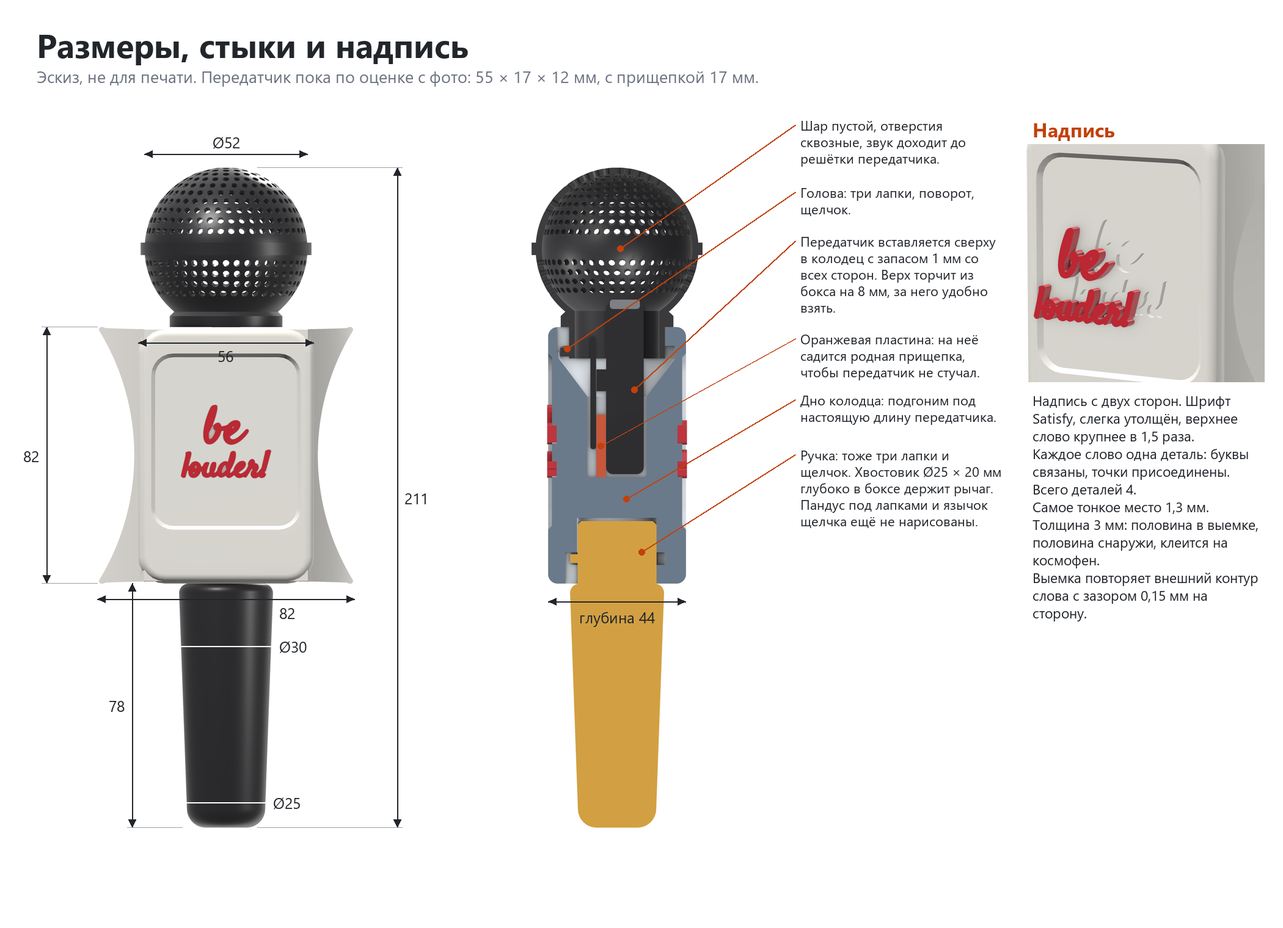
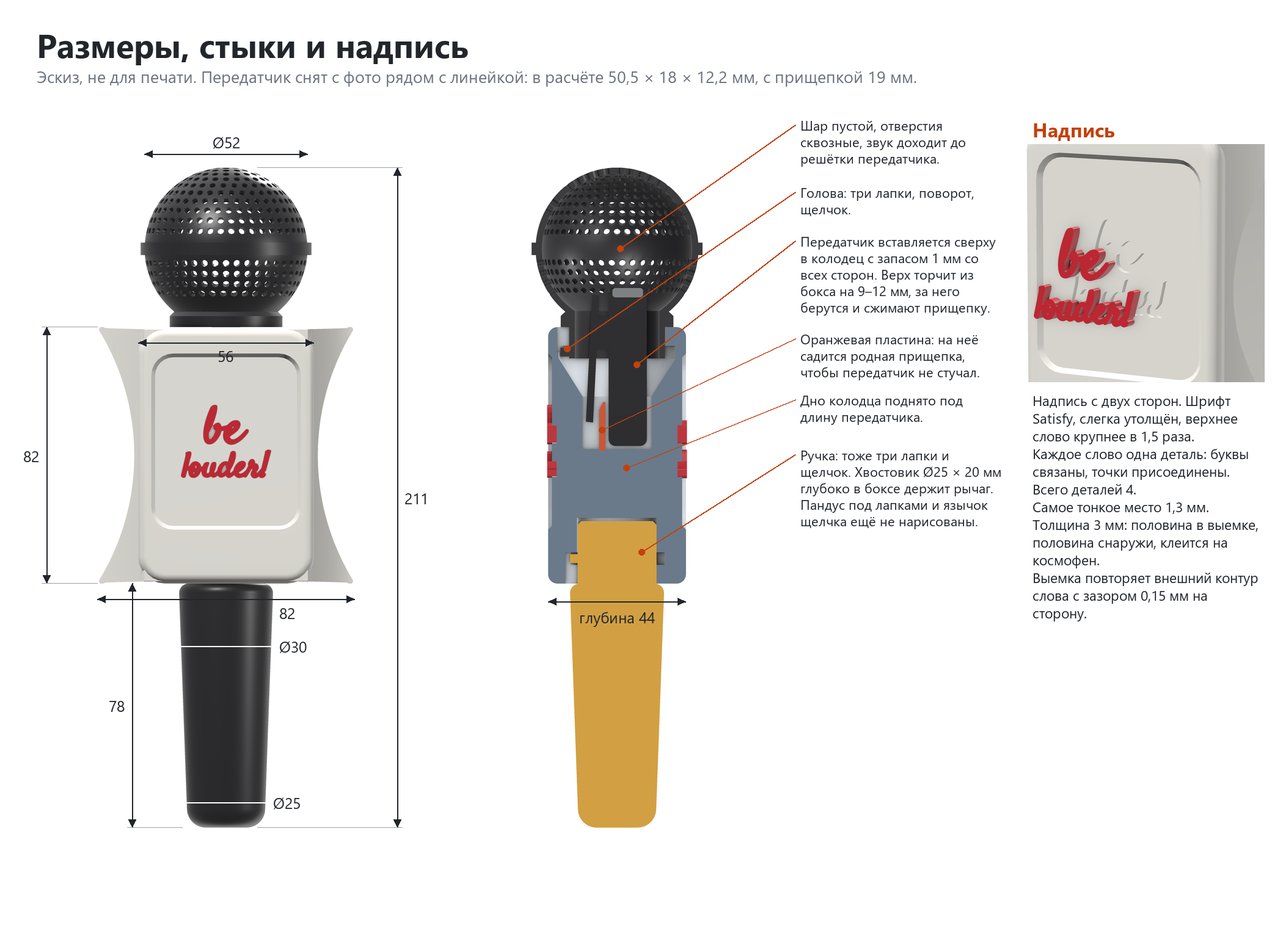
aksdom-m31-reporter-mic-case: передатчик по фото с линейкой, новый колодец
Размеры сняты с фото заказчика, в расчёте верхняя оценка 50,5 × 18 × 12,2 мм,
контур сверен наложением на фото. Прищепка смоделирована настоящей: с наклоном,
осью и проушиной. Колодец стал глубже под штырьки на зубцах, дно поднято,
пластина тоньше и на всю ширину. В проверку добавлен прогон передатчика сверху
до посадки, новый лист design-fit с точными сечениями. Статус прежний, черновик.

diff --git a/models/aksdom-m31-reporter-mic-case/v1/src/mic_case.py b/models/aksdom-m31-reporter-mic-case/v1/src/mic_case.py
@@ -23,13 +23,27 @@ K = 52.0 / 180.0                     # мм на пиксель рисунка
 # ---------- надпись: две строки, задаётся параметром ----------
 TEXT = ('be', 'louder!')
 
-# ---------- передатчик: оценка по фото покупателя, штангенциркулем не проверялось ----------
-TX_L, TX_W, TX_T = 55.0, 17.0, 12.0
-CLIP_T = 5.0
-CLIP_L, CLIP_W = 36.0, 13.0
-TX_SIDE = 0.9       # на сколько выступают кнопка и ползунок сбоку (оценка)
+# ---------- передатчик: сняты с фото рядом с линейкой, штангенциркулем не проверялось ----------
+# Линейка лежит на листе, а передатчик выше неё, поэтому на фото он крупнее настоящего, примерно на 3–8 %.
+# Здесь верхняя оценка без этой поправки: настоящий около 47 × 17 × 11, запас выйдет не меньше TX_GAP.
+TX_L, TX_W, TX_T = 50.5, 18.0, 12.2
+TX_SIDE = 0.8       # на сколько выступают кнопка и ползунок, они на одной стороне, +X
+TX_R = 2.2          # скругление рёбер корпуса
 TX_GAP = 1.0        # запас вокруг передатчика со всех сторон: входит и вынимается свободно
-TX_Y = CLIP_T / 2   # передатчик с прищепкой стоит по центру бокса
+
+# Прищепка закрыта и стоит с наклоном: у зажима дальше от корпуса, у зубцов почти вплотную.
+CLIP_L, CLIP_W = 40.5, 11.0
+CLIP_TOP = 2.7      # от верхнего торца передатчика до конца зажима
+CLIP_PRESS = 6.8    # толщина прищепки вместе с зазором у зажима, спереди назад
+CLIP_TIP = 3.5      # то же у зубцов
+CLIP_PLATE = 2.3    # толщина планки
+PIVOT_FROM_TOP = 14.3   # ось прищепки от верхнего торца
+PIVOT_BACK = 1.7        # ось за спинкой корпуса
+EAR_L, EAR_W, EAR_D = 10.0, 7.0, 4.3    # проушина оси на спинке, ширина под планкой не видна, взята примерно
+PRONG_L = 2.0       # штырьки на зубцах, упираются в пластину и отжимают планку
+BODY_PIN = 1.0      # выступ на корпусе напротив них, отжимает корпус от пластины
+
+TX_Y = CLIP_PRESS / 2   # закрытый передатчик с прищепкой идёт по центру прохода Ø27
 
 # ---------- бокс: снято с рисунка ----------
 BOX_W = 56.0        # 195 пикселей
@@ -66,7 +80,10 @@ TOP_PLATE = 6.0     # толщина верхней плиты
 SPIGOT_D = 25.2     # хвостовик ручки
 SPIGOT_L = 20.0     # длинный, чтобы ручка не качалась
 BOT_PLATE = 6.0
-PEDESTAL_Z = 34.0   # дно колодца: верх передатчика на 8 мм выше бокса, за него можно взять пальцами
+PEDESTAL_Z = 43.0   # дно колодца: верх передатчика на 9–12 мм выше бокса, за него берутся и сжимают прищепку
+BLADE_T = 2.0       # пластина, на которую садится прищепка
+BLADE_H = 15.0      # заходит за штырьки, но не доходит до проушины
+JAW_ROOM = 0.5      # добавка к глубине колодца: зубцы раскрываются на пластине
 
 
 def rrect(w, h, r):
@@ -186,15 +203,30 @@ def text_lines():
     return full, solid
 
 
+def well_half():
+    return TX_W / 2 + TX_SIDE + TX_GAP, (TX_T + CLIP_PRESS) / 2 + TX_GAP + JAW_ROOM
+
+
+def blade_y():
+    """Лицо и спина пластины: лицо за спинкой передатчика на высоту выступа корпуса."""
+    y1 = TX_Y - TX_T / 2 - BODY_PIN
+    return y1 - BLADE_T, y1
+
+
 def blade():
-    """Пластина, на которую садится прищепка: с зазором передатчик иначе болтался бы и стучал в запись."""
-    return Manifold.cube([15, 3.0, 20], True).translate([0, TX_Y - TX_T / 2 - 1.6, PEDESTAL_Z + 10])
+    """Пластина на всю ширину колодца: с запасом передатчик иначе болтался бы и стучал в запись.
+    Верх скошен со стороны прищепки, чтобы зубцы находили пластину на ощупь."""
+    x = well_half()[0] + 0.5
+    y0, y1 = blade_y()
+    z0, z1 = PEDESTAL_Z - 0.5, PEDESTAL_Z + BLADE_H
+    base = Manifold.cube([2 * x, y1 - y0, z1 - 2.5 - z0]).translate([-x, y0, z0])
+    tip = Manifold.cube([2 * x, 0.8, 0.01]).translate([-x, y1 - 0.8, z1 - 0.01])
+    return Manifold.batch_hull([base, tip])
 
 
 def well():
     """Колодец под передатчик с зазором TX_GAP со всех сторон, сверху воронка к посадке головы."""
-    x = TX_W / 2 + TX_SIDE + TX_GAP
-    y = (TX_T + CLIP_T) / 2 + TX_GAP
+    x, y = well_half()
     z0, z1, z2 = PEDESTAL_Z, BOX_H - TOP_PLATE - 16, BOX_H - TOP_PLATE - 4
     low = Manifold.cube([2 * x, 2 * y, z1 - z0]).translate([-x, -y, z0])
     base = Manifold.cube([2 * x, 2 * y, 0.2]).translate([-x, -y, z1 - 0.2])
@@ -293,16 +325,36 @@ def handle():
     return b + spig + Manifold.batch_boolean(lugs, OpType.Add)
 
 
-def transmitter():
-    """Передатчик для проверки посадки: низ на подставке, лицо к +Y, прищепка к -Y."""
-    body_ = rounded_box(TX_W, TX_T, TX_L, 2.2)
-    grille = rounded_box(TX_W - 2.4, TX_T - 2.4, 3.0, 1.0).translate([0, 0, TX_L - 2.2])
-    btn = rounded_box(1.4, 3.6, 9.0, 0.5).translate([TX_W / 2 + 0.2, 0, TX_L - 18])
-    sld = rounded_box(1.2, 3.0, 6.0, 0.4).translate([TX_W / 2 + 0.1, 0, TX_L - 30])
-    arm = rounded_box(CLIP_W, 1.8, CLIP_L, 0.7).translate([0, -TX_T / 2 - CLIP_T + 0.9, 8.0])
-    pivot = Manifold.cube([CLIP_W - 2, CLIP_T - 1.5, 7], True).translate([0, -TX_T / 2 - (CLIP_T - 1.5) / 2 + 0.4, 8 + CLIP_L - 14])
-    at = [0, TX_Y, PEDESTAL_Z + TX_GAP]
-    return (body_ + btn + sld).translate(at), grille.translate(at), (arm + pivot).translate(at)
+def clip_arm(open_deg=0.0):
+    """Планка прищепки в координатах передатчика: зажим вверху, зубцы внизу. open_deg раскрывает зубцы вокруг оси."""
+    z_press, z_tip = TX_L - CLIP_TOP, TX_L - CLIP_TOP - CLIP_L
+    y_press, y_tip = -TX_T / 2 - CLIP_PRESS, -TX_T / 2 - CLIP_TIP
+    pts = [[y_tip, z_tip], [y_press, z_press], [y_press + CLIP_PLATE, z_press], [y_tip + CLIP_PLATE, z_tip]]
+    arm = CrossSection([pts], FillRule.EvenOdd).extrude(CLIP_W).rotate([90, 0, 90]).translate([-CLIP_W / 2, 0, 0])
+    yp, zp = -TX_T / 2 - PIVOT_BACK, TX_L - PIVOT_FROM_TOP
+    return arm.translate([0, -yp, -zp]).rotate([-open_deg, 0, 0]).translate([0, yp, zp])
+
+
+def seated_open():
+    """На сколько раскрыта прищепка на пластине: штырьки упёрлись в спину пластины, худший случай."""
+    y_inner = -TX_T / 2 - CLIP_TIP + CLIP_PLATE     # внутренняя грань планки у зубцов, закрыта
+    need = (TX_Y + y_inner) - (blade_y()[0] - PRONG_L)
+    return math.degrees(math.atan(need / (TX_L - PIVOT_FROM_TOP - (TX_L - CLIP_TOP - CLIP_L))))
+
+
+def transmitter(open_deg=None, dz=0.0):
+    """Передатчик для проверки посадки: лицо к +Y, прищепка к -Y, сверху торец с микрофоном.
+    Кнопки и ось сняты с фото. Штырьки в модели не показаны, они учтены в раскрытии прищепки."""
+    if open_deg is None:
+        open_deg = seated_open()
+    body_ = rounded_box(TX_W, TX_T, TX_L, TX_R)
+    grille = rounded_box(TX_W - 2.4, TX_T - 2.4, 3.0, 1.0).translate([0, 0, TX_L - 3.0])
+    btn = rounded_box(2 * TX_SIDE + 2, 5.0, 6.5, 0.5).translate([TX_W / 2 - 1, 0.8, TX_L - 12.5])
+    sld = rounded_box(2 * TX_SIDE + 2, 5.0, 8.0, 0.5).translate([TX_W / 2 - 1, 0.8, TX_L - 25.0])
+    ear = Manifold.cube([EAR_W, EAR_D + 0.4, EAR_L]).translate([-EAR_W / 2, -TX_T / 2 - EAR_D, TX_L - PIVOT_FROM_TOP - EAR_L / 2])
+    clip = clip_arm(open_deg) + ear
+    at = [0, TX_Y, PEDESTAL_Z + TX_GAP + dz]
+    return (body_ + btn + sld).translate(at), grille.translate(at), clip.translate(at)
 
 
 def build(kind='taper'):
@@ -325,6 +377,21 @@ if __name__ == '__main__':
         print(n, 'пересечение', round((a ^ b_).volume(), 3))
     # запас считаем без пластины: на неё прищепка и должна садиться
     walls = body() - well() - top_socket()
+    print('раскрытие прищепки на пластине, градусов', round(seated_open(), 1))
     print('зазор передатчик/стенки', round(tx.min_gap(walls, 5.0), 2))
     print('зазор передатчик/голова', round(tx.min_gap(p['head'], 5.0), 2))
+    print('высота над боксом', round(PEDESTAL_Z + TX_GAP + TX_L - BOX_H, 1), 'при настоящей длине 47:', round(PEDESTAL_Z + TX_GAP + 47 - BOX_H, 1))
+    # прогон сверху до посадки: закрытый передатчик до пластины, ниже прищепка сжата
+    tip_seated = PEDESTAL_Z + TX_GAP + TX_L - CLIP_TOP - CLIP_L
+    start = PEDESTAL_Z + BLADE_H - tip_seated
+    full = p['box']
+    worst = 99.0
+    for dz in range(70, -1, -1):
+        parts = transmitter(0.0 if dz > start else None, float(dz))
+        t = parts[0] + parts[1] + parts[2]
+        v = (t ^ full).volume()
+        if v > 0.001:
+            print('  застревает при подъёме', dz, 'объём', round(v, 2))
+        worst = min(worst, t.min_gap(walls, 5.0))
+    print('прогон: наименьший зазор к стенкам', round(worst, 2))
     print('вся длина', round(p['head'].bounding_box()[5] - p['handle'].bounding_box()[2], 1))

diff --git a/models/aksdom-m31-reporter-mic-case/v1/src/sheets.py b/models/aksdom-m31-reporter-mic-case/v1/src/sheets.py
@@ -2,9 +2,9 @@
 # requires-python = ">=3.11"
 # dependencies = ["numpy", "manifold3d", "matplotlib", "fonttools", "pyvista", "pillow"]
 # ///
-"""Листы эскиза кейса-микрофона: форма, размеры, варианты цветов. Рендер через VTK, подписи шрифтом Segoe UI (Windows).
+"""Листы эскиза кейса-микрофона: форма, размеры, посадка, варианты цветов. Рендер через VTK, подписи шрифтом Segoe UI (Windows).
 
-uv run sheets.py form sizes colors                    -> все листы в ../img
+uv run sheets.py form sizes fit colors                -> все листы в ../img
 uv run sheets.py colors --top слово --bottom слово --out папка   -> другая надпись, картинки в другую папку
 Без uv: pip install numpy manifold3d matplotlib fonttools pyvista pillow, дальше python вместо uv run.
 """
@@ -341,7 +341,7 @@ def sheet_sizes(out, kind='taper'):
     sh = Image.new('RGB', (W, H), 'white')
     dr = ImageDraw.Draw(sh)
     dr.text((60, 36), 'Размеры, стыки и надпись', font=font(54, True), fill=INK)
-    dr.text((60, 106), 'Эскиз, не для печати. Передатчик пока по оценке с фото: 55 × 17 × 12 мм, с прищепкой 17 мм.', font=font(27), fill=MUTED)
+    dr.text((60, 106), 'Эскиз, не для печати. Передатчик снят с фото рядом с линейкой: в расчёте 50,5 × 18 × 12,2 мм, с прищепкой 19 мм.', font=font(27), fill=MUTED)
     top = D.BALL_CZ + D.BALL_D / 2
     zc = (top - D.HANDLE_L) / 2
     IW, IH = 560, 1250
@@ -375,9 +375,9 @@ def sheet_sizes(out, kind='taper'):
     ft = font(22)
     callout(dr, (py(1), pz(107)), (1310, 190), 'Шар пустой, отверстия сквозные, звук доходит до решётки передатчика.', 330, ft)
     callout(dr, (py(-16), pz(75)), (1310, 300), 'Голова: три лапки, поворот, щелчок.', 330, ft)
-    callout(dr, (py(D.TX_Y + 3), pz(62)), (1310, 380), 'Передатчик вставляется сверху в колодец с запасом 1 мм со всех сторон. Верх торчит из бокса на 8 мм, за него удобно взять.', 330, ft)
-    callout(dr, (py(D.TX_Y - D.TX_T / 2 - 1.6), pz(44)), (1310, 540), 'Оранжевая пластина: на неё садится родная прищепка, чтобы передатчик не стучал.', 330, ft)
-    callout(dr, (py(3), pz(27)), (1310, 640), 'Дно колодца: подгоним под настоящую длину передатчика.', 330, ft)
+    callout(dr, (py(D.TX_Y + 3), pz(70)), (1310, 380), 'Передатчик вставляется сверху в колодец с запасом 1 мм со всех сторон. Верх торчит из бокса на 9–12 мм, за него берутся и сжимают прищепку.', 330, ft)
+    callout(dr, (py(sum(D.blade_y()) / 2), pz(D.PEDESTAL_Z + 6)), (1310, 540), 'Оранжевая пластина: на неё садится родная прищепка, чтобы передатчик не стучал.', 330, ft)
+    callout(dr, (py(3), pz(D.PEDESTAL_Z - 6)), (1310, 640), 'Дно колодца поднято под длину передатчика.', 330, ft)
     callout(dr, (py(8), pz(10)), (1310, 730), 'Ручка: тоже три лапки и щелчок. Хвостовик Ø25 × 20 мм глубоко в боксе держит рычаг. Пандус под лапками и язычок щелчка ещё не нарисованы.', 330, ft)
 
     bx = 1690
@@ -393,6 +393,90 @@ def sheet_sizes(out, kind='taper'):
     block(dr, (bx, 640), txt, font(23), 370, gap=6)
     sh.save(out / 'design-sizes.png')
     print('лист размеры', flush=True)
+
+
+def fill_cut(sh, cs, f, color):
+    """Заливает сечение: контуры складываются по чётности, отверстия остаются пустыми."""
+    mask = None
+    for p in cs.to_polygons():
+        im = Image.new('1', sh.size)
+        ImageDraw.Draw(im).polygon([f(*a) for a in np.asarray(p)], fill=1)
+        a = np.asarray(im)
+        mask = a if mask is None else mask ^ a
+    if mask is not None:
+        sh.paste(color, mask=Image.fromarray((mask * 255).astype('uint8')))
+
+
+def cut_panel(cuts, f, size, ss=3):
+    im = Image.new('RGB', (size[0] * ss, size[1] * ss), 'white')
+    g = lambda a, b: tuple(ss * v for v in f(a, b))
+    for cs, color in cuts:
+        fill_cut(im, cs, g, color)
+    return im.resize(size, Image.LANCZOS)
+
+
+def mm(v):
+    return f'{v:.1f}'.replace('.', ',')
+
+
+def sheet_fit(out, kind='taper'):
+    """Точные сечения модели: как передатчик стоит в колодце и какие остаются зазоры."""
+    p = get(kind)
+    S = 12.5
+    tx = p['tx_body'] + p['tx_grille']
+    BOX, HEAD, TX, CLIP, BL = '#CBD5DE', '#8A8F98', '#22262B', '#3F4650', '#E0531A'
+    W, H = 2100, 1180
+    sh = Image.new('RGB', (W, H), 'white')
+    dr = ImageDraw.Draw(sh)
+    dr.text((60, 36), 'Посадка передатчика', font=font(54, True), fill=INK)
+    dr.text((60, 106), 'Точные сечения модели. Передатчик по верхней оценке с фото: настоящий меньше, зазоры у него будут больше.', font=font(27), fill=MUTED)
+    top = 190
+
+    def rot(m):
+        return m.rotate([0, 90, 0]).slice(0.0)
+
+    # продольный разрез: координаты сечения (z, y), лицо передатчика справа
+    zc, IW, IH = 70.0, 600, 760
+    f = lambda z, y: (IW / 2 + y * S, IH / 2 - (z - zc) * S)
+    im = cut_panel([(rot(p['box']), BOX), (rot(p['head']), HEAD), (rot(D.blade()), BL), (rot(p['tx_clip']), CLIP), (rot(tx), TX)], f, (IW, IH))
+    x1 = 60
+    sh.paste(im, (x1, top + 44))
+    dr.text((x1, top), 'Разрез сбоку, прищепка слева', font=font(30, True), fill=INK)
+
+    x0, y0 = D.well_half()
+    body_cut = lambda z: p['tx_body'].slice(z).bounds()
+    clip_cut = lambda z: p['tx_clip'].slice(z).bounds()
+    z_jaw = D.PEDESTAL_Z + D.TX_GAP + D.TX_L - D.CLIP_TOP - D.CLIP_L + 3.0
+    # сечение на высоте зубцов, вид сверху: лицо передатчика вверху
+    PW, PH = 600, 600
+    g = lambda x, y: (PW / 2 + x * S, PH / 2 - y * S)
+    im = cut_panel([(p['box'].slice(z_jaw), BOX), (D.blade().slice(z_jaw), BL), (p['tx_clip'].slice(z_jaw), CLIP), (tx.slice(z_jaw), TX)], g, (PW, PH))
+    x2 = 740
+    sh.paste(im, (x2, top + 44))
+    dr.text((x2, top), 'Вид сверху, на высоте зубцов', font=font(30, True), fill=INK)
+    b, c = body_cut(z_jaw), clip_cut(z_jaw)
+    t = (f'Спереди {mm(y0 - b[3])} мм, сзади {mm(c[1] + y0)} мм, по бокам {mm(x0 - b[2])} мм.\n'
+         f'Оранжевая пластина {mm(D.BLADE_T)} мм на всю ширину колодца. Прищепка стоит за ней, раскрыта на {mm(D.seated_open())}°: упираются штырьки длиной {mm(D.PRONG_L)} мм.')
+    block(dr, (x2, top + 44 + PH + 14), t, font(24), PW, gap=6)
+
+    # сечение в горле головы
+    z_neck = 77.0
+    im = cut_panel([(p['box'].slice(z_neck), BOX), (p['head'].slice(z_neck), HEAD), (p['tx_clip'].slice(z_neck), CLIP), (tx.slice(z_neck), TX)], g, (PW, PH))
+    x3 = 1420
+    sh.paste(im, (x3, top + 44))
+    dr.text((x3, top), 'Вид сверху, в горле головы', font=font(30, True), fill=INK)
+    gap = (p['tx_body'] + p['tx_grille'] + p['tx_clip']).min_gap(p['head'], 5.0)
+    t = (f'Самое тесное место всей посадки: от ребра передатчика до стенки Ø{D.TOP_THROAT:.0f} остаётся {mm(gap)} мм.\n'
+         'Ползунок и кнопка на одной стороне, справа на сечении.')
+    block(dr, (x3, top + 44 + PH + 14), t, font(24), PW, gap=6)
+
+    x, y = 60, H - 56
+    for name, col in (('бокс', BOX), ('голова', HEAD), ('передатчик', TX), ('прищепка', CLIP), ('пластина', BL)):
+        dr.rectangle([x, y, x + 26, y + 26], fill=col, outline='#8A8F98')
+        dr.text((x + 36, y - 4), name, font=font(24), fill=INK)
+        x += 60 + dr.textlength(name, font=font(24))
+    sh.save(out / 'design-fit.png')
+    print('лист посадка', flush=True)
 
 
 K, Wh, Yl, Bl, Rd, Tl, Pa = 'black', 'white', 'yellow', 'blue', 'red', 'teal', 'pastel'
@@ -446,7 +530,7 @@ def sheet_colors(rows, first, path, title):
 
 if __name__ == '__main__':
     ap = argparse.ArgumentParser()
-    ap.add_argument('sheets', nargs='+', choices=['form', 'sizes', 'colors'])
+    ap.add_argument('sheets', nargs='+', choices=['form', 'sizes', 'fit', 'colors'])
     ap.add_argument('--top', default=D.TEXT[0])
     ap.add_argument('--bottom', default=D.TEXT[1])
     ap.add_argument('--out', default=str(HERE.parent / 'img'))
@@ -458,6 +542,8 @@ if __name__ == '__main__':
         sheet_form(out)
     if 'sizes' in args.sheets:
         sheet_sizes(out)
+    if 'fit' in args.sheets:
+        sheet_fit(out)
     if 'colors' in args.sheets:
         sheet_colors(COMBOS[:3], 1, out / 'colors-1.png', 'Цвета, часть 1')
         sheet_colors(COMBOS[3:6], 19, out / 'colors-2.png', 'Цвета, часть 2')

diff --git a/models/aksdom-m31-reporter-mic-case/README.md b/models/aksdom-m31-reporter-mic-case/README.md
@@ -1,8 +1,8 @@
 # Кейс-микрофон для петлички Aksdom M31
 
-> **Версия:** нет, модель в разработке · **Статус:** черновик · **Обновлено:** 2026-10-31
+> **Версия:** нет, модель в разработке · **Статус:** черновик · **Обновлено:** 2026-11-01
 
-**Печатать пока нельзя.** Здесь сохранён эскиз: файла для печати ещё нет, размер передатчика взят по фото, модель не печаталась. Папка `v1/` — это будущая первая версия, а не готовая.
+**Печатать пока нельзя.** Здесь сохранён эскиз: файла для печати ещё нет, байонеты не дорисованы, модель не печаталась. Папка `v1/` — это будущая первая версия, а не готовая.
 
 ![Варианты цветов](v1/img/colors-1.png)
 
@@ -17,9 +17,9 @@
 Задумано так, пока не проверено печатью:
 
 1. Голова снимается поворотом на четверть оборота.
-2. Передатчик вставляется сверху в колодец с запасом 1 мм со всех сторон. Его прищепка садится на пластину внутри, чтобы передатчик не болтался и не стучал в запись.
-3. Голова ставится на место до щелчка. Шар пустой, отверстия в нём сквозные, звук доходит до решётки передатчика.
-4. Верх передатчика выступает из бокса на 8 мм, за него удобно взять, чтобы вынуть.
+2. Передатчик вставляется сверху торцом с микрофоном вверх, в колодец с запасом не меньше 1 мм со всех сторон. Прищепку сжимают и сажают на пластину внутри, чтобы передатчик не болтался и не стучал в запись.
+3. Голова ставится на место до щелчка. Шар пустой, отверстия в нём сквозные, звук доходит до микрофона.
+4. Чтобы вынуть, снимают голову. Верх передатчика выступает из бокса на 9–12 мм, за него берутся и сжимают прищепку.
 
 Ручка соединяется с боксом так же, байонетом.
 
@@ -40,7 +40,7 @@
 
 ## Габариты
 
-Эскиз, размеры могут поменяться после замера передатчика.
+Эскиз, размеры могут поменяться после пробной печати.
 
 | Деталь | Ширина (X) | Глубина (Y) | Высота (Z) |
 |---|---|---|---|
@@ -55,6 +55,8 @@
 ![Форма и сверка с рисунком](v1/img/design-form.png)
 
 ![Размеры, стыки и надпись](v1/img/design-sizes.png)
+
+![Посадка передатчика, точные сечения](v1/img/design-fit.png)
 
 Ещё варианты цветов: [часть 2](v1/img/colors-2.png), [часть 3](v1/img/colors-3.png). Цвета подобраны по фото катушек, вживую будут другими.
 
@@ -76,9 +78,9 @@
 
 Модель сделана кодом, папка `v1/src/`:
 
-- `mic_case.py` — геометрия, параметры в начале файла. Проверка пересечений и зазоров: `uv run mic_case.py`.
+- `mic_case.py` — геометрия, параметры в начале файла. Проверка пересечений, зазоров и прогон передатчика сверху до посадки: `uv run mic_case.py`.
 - `lettering.py` — связная надпись. Текст задаётся параметром, в файле стоит пример.
-- `sheets.py` — эти картинки: `uv run sheets.py form sizes colors`. Другая надпись: `--top слово --bottom слово --out папка`.
+- `sheets.py` — эти картинки: `uv run sheets.py form sizes fit colors`. Другая надпись: `--top слово --bottom слово --out папка`.
 
 Шрифт Satisfy (Apache 2.0) в репозиторий не положен. Скачайте `Satisfy-Regular.ttf` с Google Fonts в папку `v1/src/fonts/` или укажите путь в переменной окружения `MIC_FONT`.
 
@@ -94,25 +96,34 @@
 
 ## Заметки
 
-**Откуда размеры.** Размера передатчика M31 нигде нет.
+**Откуда размеры.** В продаже размера передатчика M31 нет: в карточке Wildberries только 80 × 60 × 30 мм, похоже на зарядный кейс, а 32 × 17 × 10 мм продавец называл для другой модели, M-A1. Поэтому передатчик снят с четырёх фото рядом с линейкой.
 
-- В карточке Wildberries указано 80 × 60 × 30 мм, вес 70 г. Не написано, чего именно, похоже на зарядный кейс.
-- На AliExpress тот же товар, размеров там нет.
-- Продавец называл 32 × 17 × 10 мм, но это ответ про другую модель, M-A1.
-- В эскизе взята оценка по фото покупателя, масштаб по штекеру USB-C: 55 × 17 × 12 мм, с прищепкой толщина 17 мм.
+Линейка лежит на листе, а передатчик выше неё, поэтому на фото он выходит крупнее настоящего. Точно перспективу по таким снимкам не восстановить, так что в расчёт взята верхняя оценка без поправки. Настоящий передатчик примерно 47 × 17 × 11 мм, зазоры у него будут больше расчётных.
+
+| Размер | В расчёте |
+|---|---|
+| Длина | 50,5 мм |
+| Ширина | 18 мм, кнопка и ползунок выступают ещё на 0,8 мм с одной стороны |
+| Толщина без прищепки | 12,2 мм |
+| Толщина с прищепкой | 19 мм у зажима, 15,7 мм у зубцов: прищепка стоит с наклоном |
+| Прищепка | 40,5 × 11 мм, зажим на 2,7 мм ниже верхнего торца, ось на 14,3 мм |
+
+Контур модели передатчика сверен наложением на выпрямленные фото. Отверстие микрофона в верхнем торце: это видно на картинке продавца, где ветрозащита надета на торец рядом с кнопкой и ползунком. Лицевая сторона и сам торец на фото замера не сняты.
 
 **Что осталось до первой версии.**
 
-- Снять размеры передатчика и пересчитать колодец, дно колодца и проход под голову. Сейчас проход Ø27 мм.
 - Смоделировать пандусы и язычки щелчка в байонетах: в эскизе они пока не нарисованы.
-- Напечатать пробник байонетов и проверить посадки на PETG.
+- Напечатать пробник байонетов и колодца, проверить посадки на PETG и на настоящем передатчике, в том числе посадку прищепки на пластину.
 - Проверить зазор выемки 0,15 мм и держится ли надпись на космофене. Клей может оставить белёсый налёт, поэтому капать лучше в выемку.
 - Убедиться, что шар с отверстиями печатается без поддержек, и подобрать ретракт от нитей.
 
 **Почему так устроено.**
 
 - Голова и ручка на байонете, а не на резьбе: так решил автор. Хвостовик ручки длинный, Ø25 × 20 мм: он глубоко заходит в бокс и держит рычаг, а пандус под лапками поджимает ручку к боксу.
-- Запас вокруг передатчика 1 мм, чтобы он свободно входил и вынимался. Держит его родная прищепка на пластине, иначе он бы стучал.
+- Запас вокруг передатчика не меньше 1 мм, чтобы он свободно входил и вынимался. Держит его родная прищепка на пластине, иначе он бы стучал.
+- Колодец на 0,5 мм глубже на сторону: на зубцах прищепки стоят штырьки длиной около 2 мм, на пластине они упираются и отжимают планку.
+- Пластина толщиной 2 мм идёт на всю ширину колодца, поэтому держится за стенки, а не только за дно. Верх скошен, чтобы зубцы находили её на ощупь.
+- Дно колодца поднято: передатчик короче, чем казалось по фото покупателя, а его верх должен торчать из бокса. Иначе не за что взяться и нечем сжать прищепку.
 - Надпись связная: отдельные буквы длинного слова выходят со штрихом около 1 мм, их не напечатать и не наклеить. Поэтому каждое слово одна деталь, точка присоединена к букве. Деталь толщиной 3 мм, половина в выемке, половина снаружи, клеится на космофен.
 - Верхнее слово крупнее в 1,5 раза, иначе надпись теряется в панели.
 

diff --git a/REGISTRY.md b/REGISTRY.md
@@ -9,4 +9,4 @@
 | [Органайзер lil SOLID на 4 устройства](models/lil-solid-organizer/lil-solid-organizer-4-devices/README.md) | 4 устройства lil SOLID 3.0 с зарядкой на месте, 4 пачки HEETS, чистилка | v1 | 176 × 201 | PLA, PETG | на проверке | 2026-10-30 |
 | [Пробник посадки для органайзера lil SOLID](models/lil-solid-organizer/lil-solid-organizer-fit-test/README.md) | Кусок органайзера на 2 ложа и пачку — проверить посадку перед печатью бокса | v1 | 149 × 103 | та же, что для органайзера | черновик | 2026-10-30 |
 | [Каретка колёс верхней корзины Electrolux 4055512018](models/electrolux-4055512018-wheel-carrier/README.md) | Замена сломанной каретки для посудомоечной машины Electrolux EEM923100L, с двумя роликами | v1 | 104 × 67, высота 91 | PETG, ASA, ABS | рабочая | 2026-10-31 |
-| [Кейс-микрофон для петлички Aksdom M31](models/aksdom-m31-reporter-mic-case/README.md) | Корпус в виде репортёрского микрофона под беспроводную петличку: шар, бокс с надписью, ручка. Файла для печати пока нет | — | 91 × 54, высота 98 | PETG | черновик | 2026-10-31 |
+| [Кейс-микрофон для петлички Aksdom M31](models/aksdom-m31-reporter-mic-case/README.md) | Корпус в виде репортёрского микрофона под беспроводную петличку: шар, бокс с надписью, ручка. Файла для печати пока нет | — | 91 × 54, высота 98 | PETG | черновик | 2026-11-01 |
